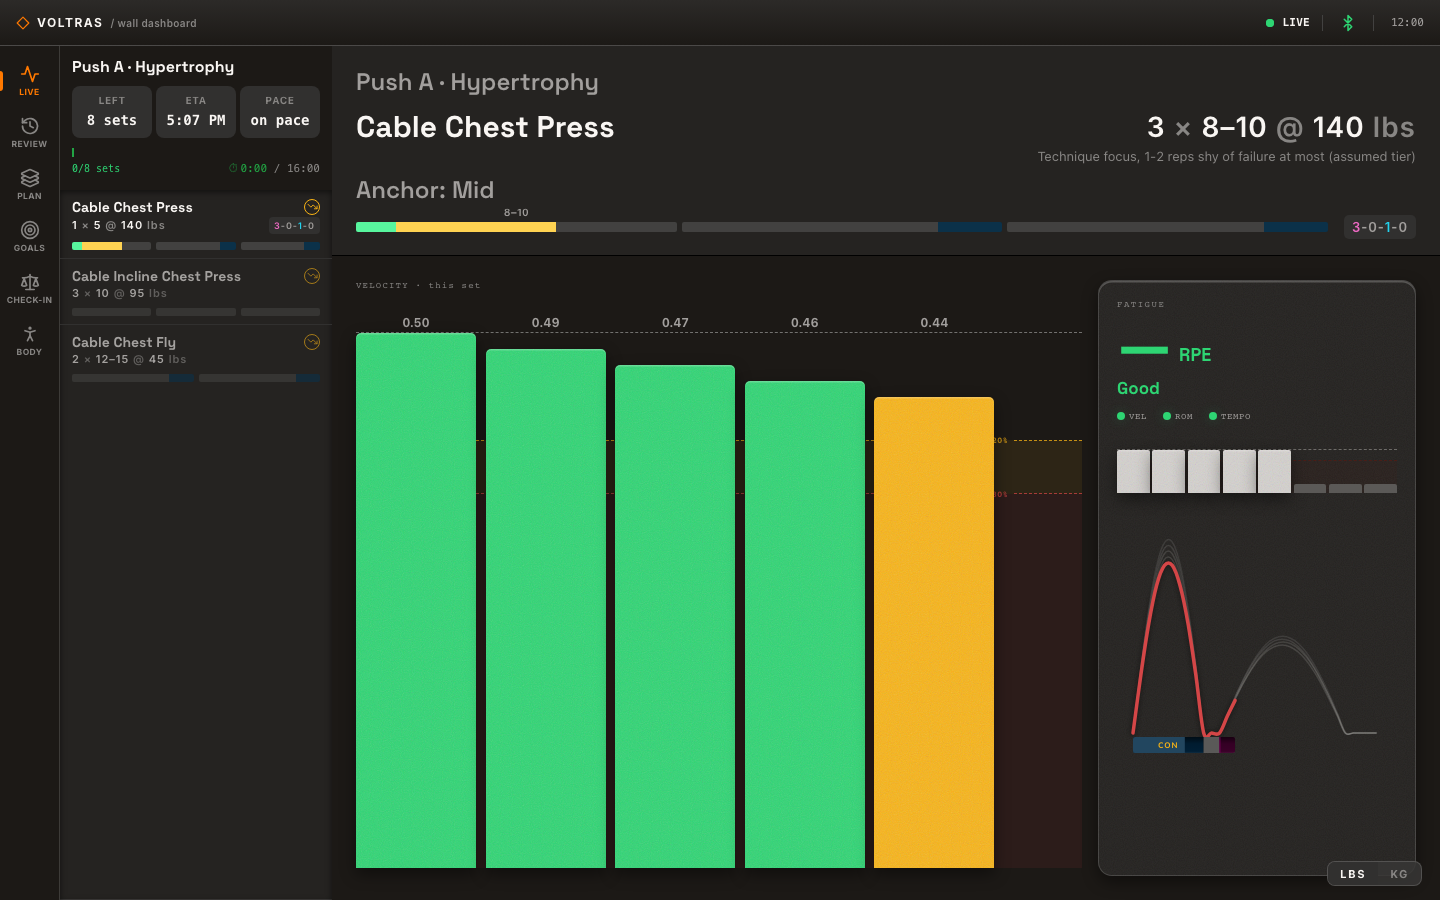
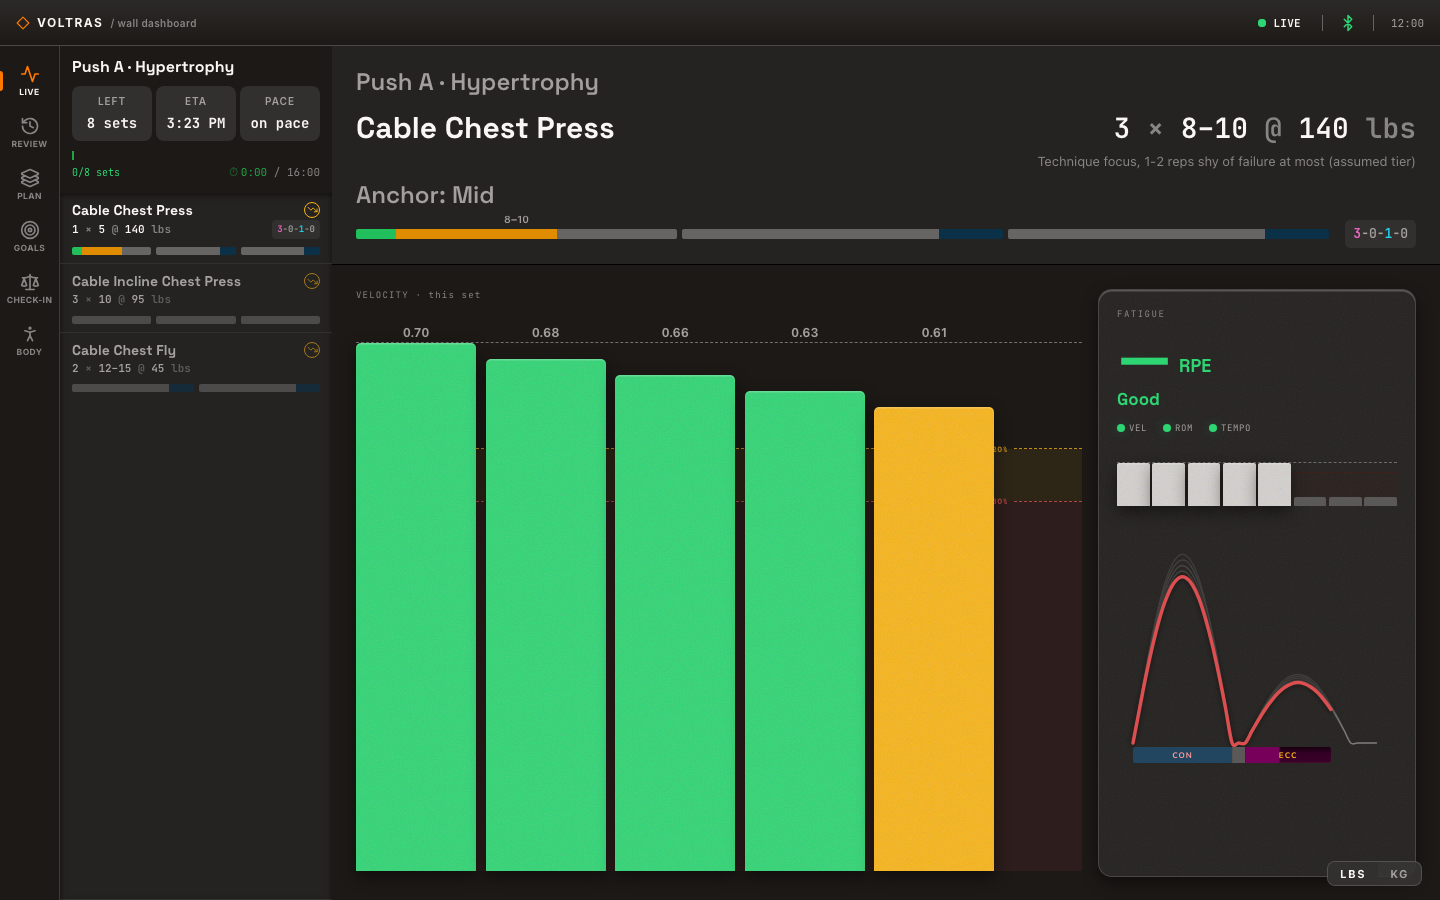
Pin the live stills to the 0.16.0 mock's rep velocities
The SDK 0.16.0 mock lifts faster, so every per-rep peak on the live
shots moved. Re-take the five live-page stills and keep the guides'
callout quotes in step.

diff --git a/src/docs/capture-shots.ts b/src/docs/capture-shots.ts
@@ -388,7 +388,7 @@ export const CAPTURE_SHOTS: readonly CaptureShot[] = [
       // All five: the page draws the fifth rep a poll after the server counts
       // it, and briefly with only its lifting half, so four passed on a page
       // that had not caught up yet (VW-437).
-      'VL 20% VL 30% 0.50 0.49 0.47 0.46 0.44',
+      'VL 20% VL 30% 0.70 0.68 0.66 0.63 0.61',
       // The readout that caught this: two runs of the OLD harness disagreed
       // here (5.5 "Good" against 6.0 "Slowing") and both were green. The RPE is
       // a dash: withheld until a trusted fitted profile exists (VW-485).
@@ -439,7 +439,7 @@ export const CAPTURE_SHOTS: readonly CaptureShot[] = [
       // Next time's load is the top load less the step, in neutral ink, with the
       // disagreement as a short label (its sentence is the tip).
       'NEXT TIME · REPS VS PLAN 135 lb Back off 5 lb 2×12–15 5 5 Moved well · missed reps',
-      'Cable Chest Fly #1 working 5 140 lb 12% 0.5 163 lb #2 working 5 140 lb 12% 0.5 163 lb',
+      'Cable Chest Fly #1 working 5 140 lb 12% 0.7 163 lb #2 working 5 140 lb 12% 0.7 163 lb',
     ],
     holdsPageOpen: false,
     variesBy: 'the session start and end stamps',
@@ -470,8 +470,8 @@ export const CAPTURE_SHOTS: readonly CaptureShot[] = [
     waitFor: { kind: 'set-open', reps: [['primary', 10]] },
     expectText: ['Cable Chest Press', 'VELOCITY · this set', 'FATIGUE'],
     expectValues: [
-      // Ten per-rep peaks: the last one sits 26% under the first.
-      'VL 20% VL 30% 0.50 0.49 0.47 0.46 0.44 0.43 0.41 0.40 0.38 0.37',
+      // Ten per-rep peaks: the last one sits 27% under the first.
+      'VL 20% VL 30% 0.70 0.68 0.66 0.63 0.61 0.59 0.57 0.55 0.53 0.51',
       // The verdict the tour exists to show. `live-mid-set` pins `Good`.
       'FATIGUE — RPE Slowing',
       'PACE on pace',
@@ -496,8 +496,8 @@ export const CAPTURE_SHOTS: readonly CaptureShot[] = [
       // Both sides' per-rep peaks in one string, so a slot that stopped
       // updating or started mirroring its neighbour cannot pass. Six values
       // left, four right — the scenario's own asymmetric target.
-      'VL 20% VL 30% 0.50 0.49 0.47 0.46 0.44 0.43 VL 20% VL 30% 0.50 0.49 0.47 0.46',
-      'L/R 2% Right leading',
+      'VL 20% VL 30% 0.70 0.68 0.66 0.63 0.61 0.59 VL 20% VL 30% 0.70 0.68 0.66 0.63',
+      'L/R 3% Right leading',
     ],
     // Unlike the other live-page shots, this is the ONLY shot in the `dual`
     // scenario, so there is no later shot's continuity to preserve by holding

diff --git a/site/guides/dashboard-fatigue.md b/site/guides/dashboard-fatigue.md
@@ -34,7 +34,7 @@ reps of this set, the slowest rep is only a little under the fastest.
 <CaptureCallouts
   shot="live-mid-set"
   :callouts='[
-    {"quote": "VL 20% VL 30% 0.50 0.49 0.47 0.46 0.44", "text": "One bar per rep. The two lines mark 20% and 30% velocity loss from the best rep."},
+    {"quote": "VL 20% VL 30% 0.70 0.68 0.66 0.63 0.61", "text": "One bar per rep. The two lines mark 20% and 30% velocity loss from the best rep."},
     {"quote": "FATIGUE — RPE Good", "text": "The verdict word. No bar is near either line, so it reads Good."}
   ]'
 />
@@ -57,12 +57,12 @@ This set runs ten reps at the same load. Each rep is a little slower than the on
 <CaptureCallouts
   shot="live-slowing"
   :callouts='[
-    {"quote": "VL 20% VL 30% 0.50 0.49 0.47 0.46 0.44 0.43 0.41 0.40 0.38 0.37", "text": "Ten reps. The last one is 26% slower than the first, so it sits past the 20% line and short of the 30% line."},
+    {"quote": "VL 20% VL 30% 0.70 0.68 0.66 0.63 0.61 0.59 0.57 0.55 0.53 0.51", "text": "Ten reps. The last one is 27% slower than the first, so it sits past the 20% line and short of the 30% line."},
     {"quote": "FATIGUE — RPE Slowing", "text": "The verdict word has changed from Good to Slowing."}
   ]'
 />
 
-Slowing is the verdict's warning step. Velocity loss alone is enough for it here: 26% is past
+Slowing is the verdict's warning step. Velocity loss alone is enough for it here: 27% is past
 the 20% warning mark and short of the 30% alarm. [The fatigue verdict](/concepts/fatigue-and-pacing#the-fatigue-verdict)
 lists all four words and what triggers each.
 
@@ -71,7 +71,7 @@ This set has not reached its stop line. The driver starts the set with no veloci
 training intent or, failing that, the hypertrophy default. The seeded exercise states no
 intent (`scripts/dashboard-plan-drive.mjs:115-126`<!-- anchor: const PLANNED -->), so the default applies, and it is 30%
 (`src/state/velocity-loss-intent.ts:45-49`<!-- anchor: hypertrophy: 30 -->, `src/state/velocity-loss-intent.ts:113`<!-- anchor: DEFAULT_STOP_INTENT -->). The block's "Hypertrophy" focus does not set it.
-At 26% the card is in its approaching band, which starts at two thirds of the stop line
+At 27% the card is in its approaching band, which starts at two thirds of the stop line
 (`src/dashboard/spa/live-page/fatigue-state.ts:29-37`<!-- anchor: stop.bands[1] -->,
 `src/state/velocity-loss-intent.ts:149-152`<!-- anchor: stopThirdsBands -->). At 30% it would read stop.
 [When the live card says stop](/concepts/fatigue-and-pacing#when-the-live-card-says-stop)

diff --git a/site/guides/dashboard-pacing-and-form.md b/site/guides/dashboard-pacing-and-form.md
@@ -47,7 +47,7 @@ With none, the header shows no tempo rather than an invented one
   shot="live-mid-set"
   :callouts='[
     {"quote": "Cable Chest Press 3 × 8–10 @ 140 lbs", "text": "The prescription in the header. A tempo target, when one applies, sits with it."},
-    {"quote": "VL 20% VL 30% 0.50 0.49 0.47 0.46 0.44", "text": "One bar per rep. With a tempo target, each rep is tinted by how far its lifting time sat from the target lifting time."},
+    {"quote": "VL 20% VL 30% 0.70 0.68 0.66 0.63 0.61", "text": "One bar per rep. With a tempo target, each rep is tinted by how far its lifting time sat from the target lifting time."},
     {"quote": "FATIGUE — RPE Good", "text": "The fatigue card. Its three lights sit under this verdict: velocity loss, form and tempo."}
   ]'
 />
@@ -119,8 +119,8 @@ its diverging stage on its own: one velocity chart per side
   shot="live-dual-mid-set"
   :callouts='[
     {"quote": "MOCK-VOLTRA-LEFT", "text": "The device bound to the left slot. The right side is labelled the same way."},
-    {"quote": "VL 20% VL 30% 0.50 0.49 0.47 0.46 0.44 0.43 VL 20% VL 30% 0.50 0.49 0.47 0.46", "text": "Each side has its own bars and loss lines. Here the left side is six reps in, the right side four."},
-    {"quote": "L/R 2% Right leading", "text": "The imbalance: the gap in mean rep speed between the sides, and which side is faster."}
+    {"quote": "VL 20% VL 30% 0.70 0.68 0.66 0.63 0.61 0.59 VL 20% VL 30% 0.70 0.68 0.66 0.63", "text": "Each side has its own bars and loss lines. Here the left side is six reps in, the right side four."},
+    {"quote": "L/R 3% Right leading", "text": "The imbalance: the gap in mean rep speed between the sides, and which side is faster."}
   ]'
 />
 

diff --git a/site/guides/dashboard-session-review.md b/site/guides/dashboard-session-review.md
@@ -52,7 +52,7 @@ progress, reload the page after [`session.end`](/reference/session) to see the f
     {"quote": "Cable Chest Fly HOW IT MOVED · WORST SET #2 · VL12% Good VEL ROM TEMPO", "text": "The verdict for this exercise, the set it read and that set’s velocity loss."},
     {"quote": "VL 12%→12% e1RM 163→163 · 0% #1 5 140 lb VL12% #2 5 140 lb VL12%", "text": "The sets behind the verdict: velocity loss and estimated one-rep max from first set to last, then one column per set."},
     {"quote": "NEXT TIME · REPS VS PLAN 135 lb Back off 5 lb 2×12–15 5 5 Moved well · missed reps", "text": "The load for next time, the step that lands on it, and the reps it scored against the plan."},
-    {"quote": "Cable Chest Fly #1 working 5 140 lb 12% 0.5 163 lb #2 working 5 140 lb 12% 0.5 163 lb", "text": "One row per set: what it counted as, reps, load, velocity loss, best rep velocity and estimated one-rep max."}
+    {"quote": "Cable Chest Fly #1 working 5 140 lb 12% 0.7 163 lb #2 working 5 140 lb 12% 0.7 163 lb", "text": "One row per set: what it counted as, reps, load, velocity loss, best rep velocity and estimated one-rep max."}
   ]'
 />
 

diff --git a/site/guides/dashboard-tour.md b/site/guides/dashboard-tour.md
@@ -54,7 +54,7 @@ the prescription next to what the set is actually doing.
   :callouts='[
     {"quote": "Cable Chest Press 3 × 8–10 @ 140 lbs", "text": "The prescription from the attached plan: sets, rep range and load."},
     {"quote": "0/8 sets", "text": "Working sets done out of every set the plan holds for this session."},
-    {"quote": "VL 20% VL 30% 0.50 0.49 0.47 0.46 0.44", "text": "Each rep as a bar on the velocity chart, drawn against lines at 20% and 30% velocity loss."},
+    {"quote": "VL 20% VL 30% 0.70 0.68 0.66 0.63 0.61", "text": "Each rep as a bar on the velocity chart, drawn against lines at 20% and 30% velocity loss."},
     {"quote": "FATIGUE — RPE Good", "text": "The fatigue verdict. The RPE slot shows a dash: the effort readout is coming soon."}
   ]'
 />

diff --git a/docs/screenshot-harness.md b/docs/screenshot-harness.md
@@ -78,7 +78,7 @@ event bridge, real `LiveState`, real `set.end`. Nothing is stubbed at the HTTP l
 | `goals`             | `dashboard-mock-drive.mjs --goal`, PR loop    | the goal-coach page with a PR    |
 
 `live-slowing` has a scenario of its own, `fatigued`: the same plan driver with one set of
-ten pinned reps instead of five. The per-rep peaks fall from 0.50 to 0.37, a 26% loss, so
+ten pinned reps instead of five. The per-rep peaks fall from 0.70 to 0.51, a 27% loss, so
 the fatigue card reads `Slowing` rather than the `Good` that `live-mid-set` pins.
 
 The goals and body shots are captioned `Seeded data, not yet available:`. Both pages are
